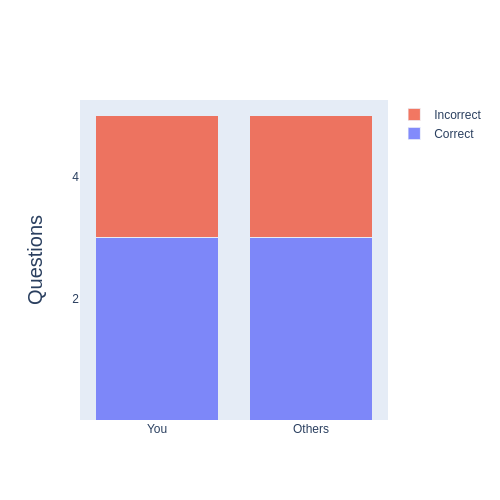
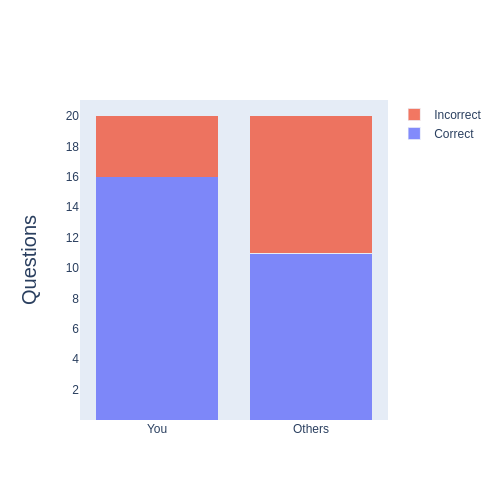
fixed bug

diff --git a/frontend/src/app/results/results.component.html b/frontend/src/app/results/results.component.html
@@ -1,13 +1,17 @@
 
 <body>
-<div *ngIf="show else loading">
-    <div *ngFor="let graph of graphs">
-            <img [src]="graph.src">
+
+<a routerLink = "/login" class="btn btn-primary float-right">Logout</a>
+
+<div class="row" *ngIf="show else loading">
+    <div *ngFor="let graph of graphs" class="col-4 offset-md-1 text-center">
+            <img [src]="graph.src" class="img-fluid" height="450px" width="450px">
     </div>
 </div>
 
 <ng-template #loading>
-    <img src = "assets/loading.gif">
-    <img src = "assets/loading.gif">
+    <div class="row">
+        <img class="col-4 offset-md-5" src = "assets/loading.gif">
+    </div>
 </ng-template>
 </body>

diff --git a/frontend/src/app/results/results.component.css b/frontend/src/app/results/results.component.css
@@ -2,3 +2,13 @@
 html,body{height:100%;margin:0;padding:0;}
 body { background-image: linear-gradient(to bottom right, #36B8E9, #FF88B1,#36B8E9); background-size:100% 100%}
 body{background-position:center;background-repeat:no-repeat;min-height:100vh;font-family:'Roboto', sans-serif;}body { background-image: linear-gradient(to bottom right, #36B8E9, #FF88B1,#36B8E9); background-size:100% 100%}
+
+.col-4 {
+    margin-top: 5%;
+}
+
+a {
+    margin: 20px;
+    background-color: #36B8E9;
+}
+

diff --git a/frontend/src/app/results/results.component.ts b/frontend/src/app/results/results.component.ts
@@ -19,7 +19,7 @@ export class ResultsComponent implements OnInit {
   constructor(private _resultService :ResultService,private _route: ActivatedRoute,private router: Router) { 
     setTimeout(() => {
       this.show = true;
-    }, 100000);
+    }, 10000);
   }
   
 

diff --git a/quiz_flask/server.py b/quiz_flask/server.py
@@ -158,7 +158,7 @@ def next():
     uname = sess['username']
     subject = sess['subject']
     table = mongo_db[subject]
-    if count<5:
+    if count<20:
         
         data = request.get_json()
         print(data)
@@ -220,6 +220,7 @@ def results(username):
             others_incorrect += i['incorrect']
     others_correct /= count
     others_incorrect /= count
+    print(others_correct,others_incorrect)
     correct_y.append(others_correct)
     incorrect_y.append(others_incorrect)
     print(correct_y)
@@ -268,11 +269,13 @@ def results(username):
         )
     )
     fig1 = go.Figure(data=go.Scatter(x=x, y=y,marker_color='rgba(255, 0, 0, .7)'),layout=layout,)
-    fig1.update_layout(xaxis_title='Questions',
+    fig1.update_layout(width=500,
+                      height=500,
+                    xaxis_title='Questions',
                    yaxis_title='Difficulty level')
     fig1.write_image("../frontend/src/assets/fig2.png")
     z = 0
-    while(z<1000000):
+    while(z<10000000):
         z += 1
     resp = [
         {'src' : 'assets/fig1.png'},
